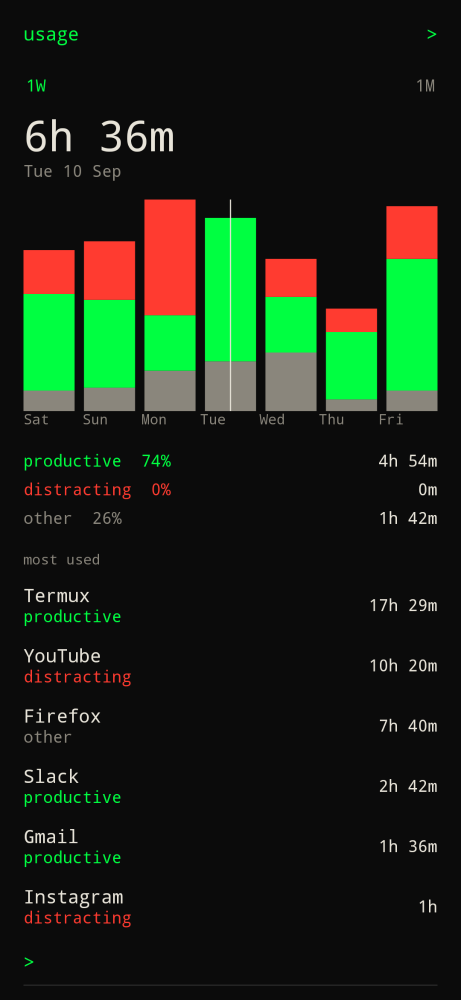
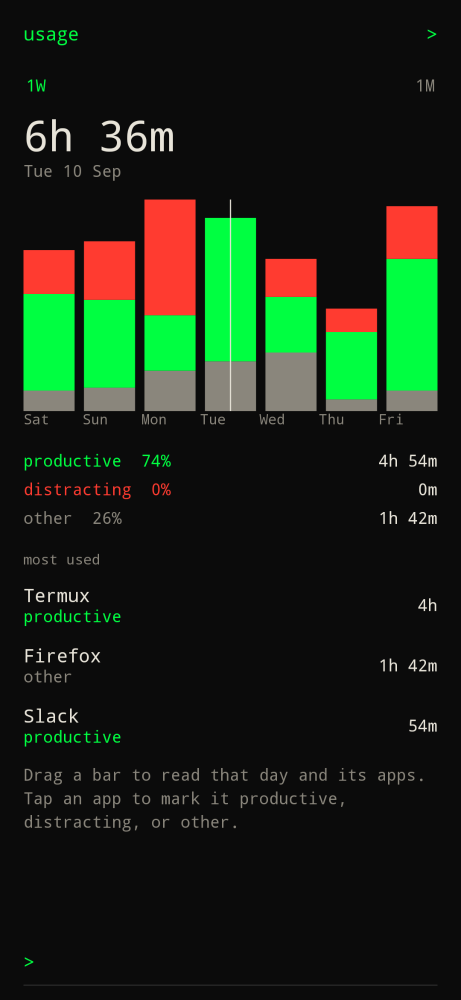
feat: show that day's apps when scrubbing usage (#85)
The chart already updated totals for the pressed bar. The most-used
table now follows the same selection.

diff --git a/app/src/test/java/xyz/cdr/builderlauncher/usage/UsageTest.kt b/app/src/test/java/xyz/cdr/builderlauncher/usage/UsageTest.kt
@@ -102,6 +102,13 @@ class UsageTest {
         assertEquals(UsageKind.PRODUCTIVE, week.apps.find { it.packageName == "org.mozilla.firefox" }?.kind)
         assertEquals("Tue", week.bars[3].label)
         assertTrue(week.bars[3].detail.contains("Tue"))
+        assertEquals(
+            listOf("com.termux", "com.google.android.youtube", "org.mozilla.firefox"),
+            week.bars[3].apps.map { it.packageName },
+        )
+        assertEquals(3_600_000L, week.bars[3].apps.find { it.packageName == "com.termux" }?.millis)
+        assertTrue(week.bars[0].apps.isEmpty())
+        assertEquals(week.apps.map { it.packageName }, week.bars[3].apps.map { it.packageName })
     }
 
     @Test
@@ -136,6 +143,8 @@ class UsageTest {
         assertEquals(7, snap.bars.size)
         assertTrue(snap.totalMs > 0)
         assertTrue(snap.apps.isNotEmpty())
+        assertTrue(snap.bars[3].apps.isNotEmpty())
+        assertTrue(snap.bars[3].apps.map { it.packageName } != snap.apps.map { it.packageName })
         assertTrue(Usage.axisLabel(0, 7, UsagePeriod.W1))
         assertTrue(Usage.axisLabel(3, 7, UsagePeriod.W1))
         assertTrue(Usage.axisLabel(1, 30, UsagePeriod.M1) == false)

diff --git a/app/src/main/java/xyz/cdr/builderlauncher/ui/UsageScreen.kt b/app/src/main/java/xyz/cdr/builderlauncher/ui/UsageScreen.kt
@@ -111,6 +111,7 @@ fun UsageBody(
     val productive = bar?.productiveMs ?: snapshot.productiveMs
     val distracting = bar?.distractingMs ?: snapshot.distractingMs
     val other = bar?.otherMs ?: snapshot.otherMs
+    val apps = bar?.apps ?: snapshot.apps
     Column(modifier.fillMaxWidth()) {
         Row(Modifier.fillMaxWidth(), horizontalArrangement = Arrangement.SpaceBetween) {
             UsagePeriod.entries.forEach { period ->
@@ -155,12 +156,12 @@ fun UsageBody(
         Spacer(Modifier.height(16.dp))
         Text("most used", color = Dim, style = MaterialTheme.typography.labelSmall)
         Spacer(Modifier.height(6.dp))
-        snapshot.apps.forEach { app ->
+        apps.forEach { app ->
             UsageAppRow(app = app, onCycle = { onCycleApp(app.packageName) })
         }
         Spacer(Modifier.height(8.dp))
         Text(
-            "Tap a bar to read that day. Tap an app to mark it productive, distracting, or other.",
+            "Drag a bar to read that day and its apps. Tap an app to mark it productive, distracting, or other.",
             color = Dim,
             style = MaterialTheme.typography.bodyMedium,
         )

diff --git a/app/src/main/java/xyz/cdr/builderlauncher/usage/Usage.kt b/app/src/main/java/xyz/cdr/builderlauncher/usage/Usage.kt
@@ -42,6 +42,7 @@ data class UsageBar(
     val productiveMs: Long,
     val distractingMs: Long,
     val otherMs: Long,
+    val apps: List<UsageApp> = emptyList(),
 ) {
     val totalMs: Long get() = productiveMs + distractingMs + otherMs
 }
@@ -207,6 +208,7 @@ object Usage {
                 productiveMs = productive,
                 distractingMs = distracting,
                 otherMs = other,
+                apps = aggregateApps(listOf(raw), overrides),
             )
         }
         val apps = aggregateApps(rawDays, overrides)

diff --git a/website/src/content/docs/use/usage.md b/website/src/content/docs/use/usage.md
@@ -5,7 +5,7 @@ description: Screen time on the phone. Productive vs distracting, 1W / 1M, most-
 
 ![Usage with the last seven days and most-used apps](../../../assets/screenshots/usage.png)
 
-![Press a bar to see that day](../../../assets/screenshots/usage-scrub.png)
+![Press a bar to see that day and its apps](../../../assets/screenshots/usage-scrub.png)
 
 Type `usage` or `/usage`, tap the descending bar chart at the top left of [home](home/), swipe from the left of home, or press D-pad left.
 
@@ -17,9 +17,9 @@ Android keeps the totals. Builder Launcher does not upload them. Grant **Usage a
 | Total | Time in the foreground for the selected range, or for the pressed bar. |
 | vs last week | Shown for **1W** until you press a bar. |
 | Pickups | Screen-on events for the selected range. |
-| Chart | Stacked bars: productive (accent), distracting (red), other (dim). Press a bar to read that day. |
-| Breakdown | Share of productive / distracting / other. |
-| Most used | Top apps in the range. Tap a row to cycle **other → productive → distracting**. Your choice sticks on the device. |
+| Chart | Stacked bars: productive (accent), distracting (red), other (dim). Press or drag a bar to read that day. |
+| Breakdown | Share of productive / distracting / other for the range, or for the pressed bar. |
+| Most used | Top apps in the range, or in the pressed day. Tap a row to cycle **other → productive → distracting**. Your choice sticks on the device. |
 
 YouTube, Instagram, and similar apps start as distracting. Termux, Slack, Gmail, calendars, and maps start as productive. Everything else starts as other, including this launcher and browsers.
 
